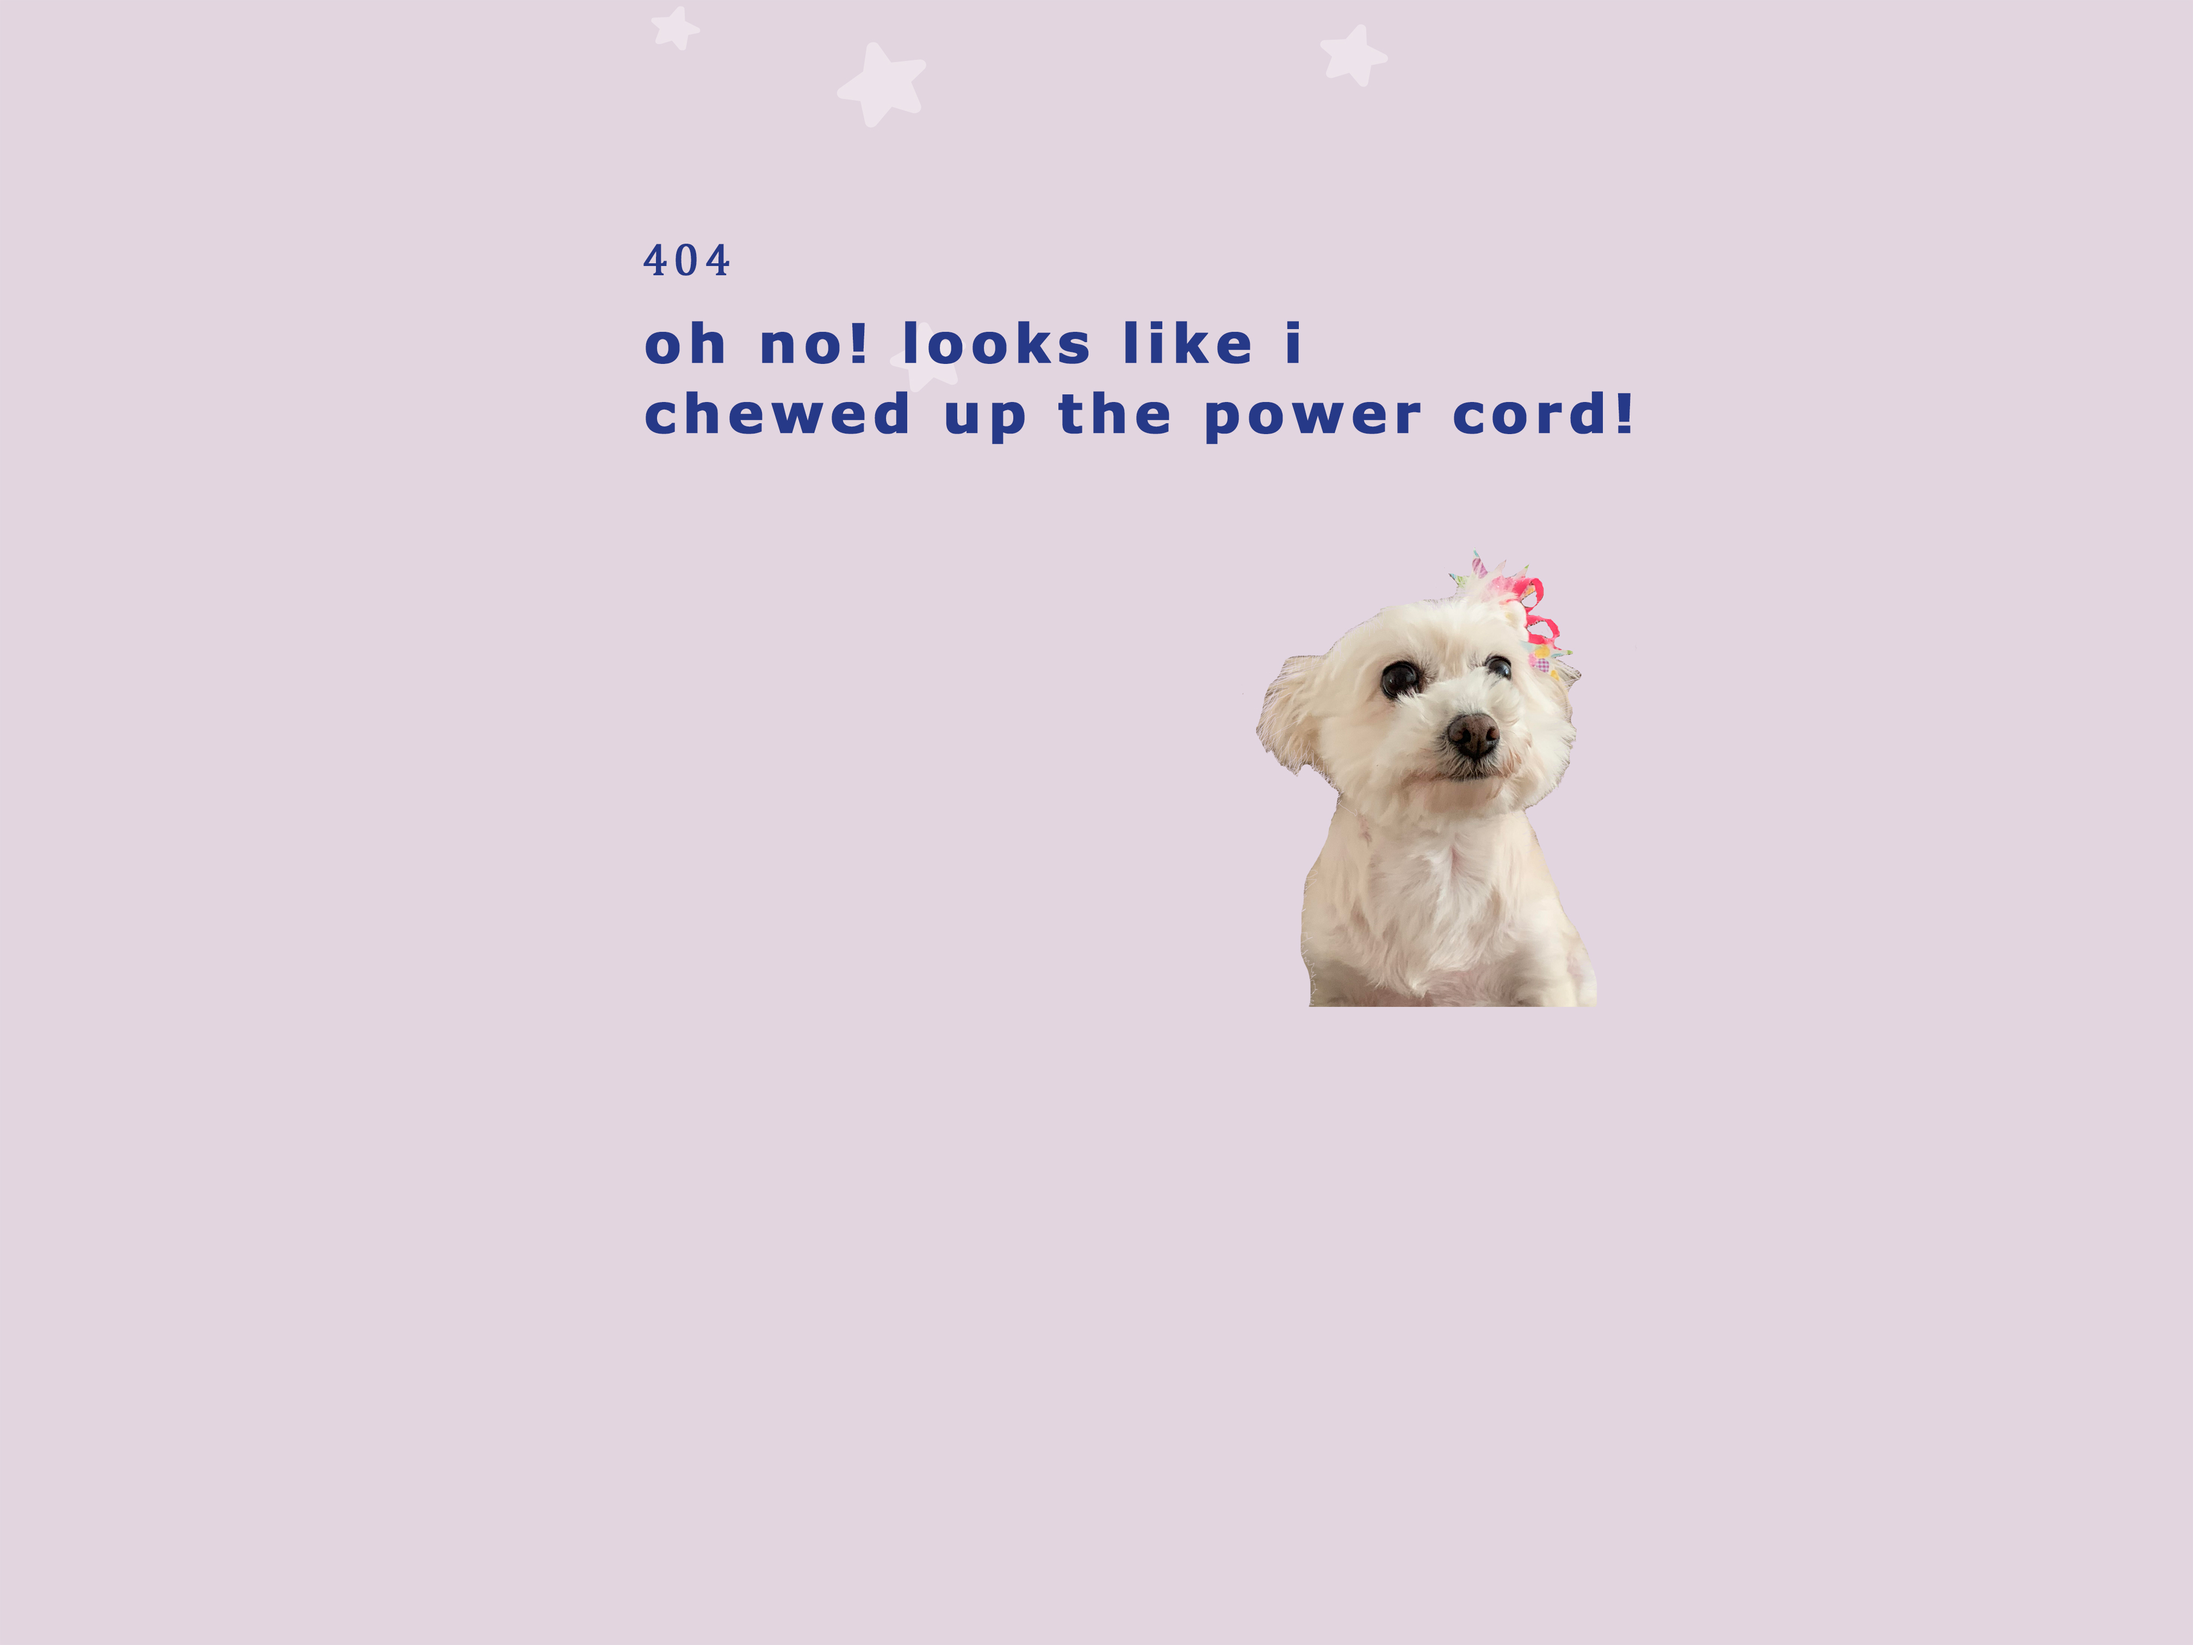
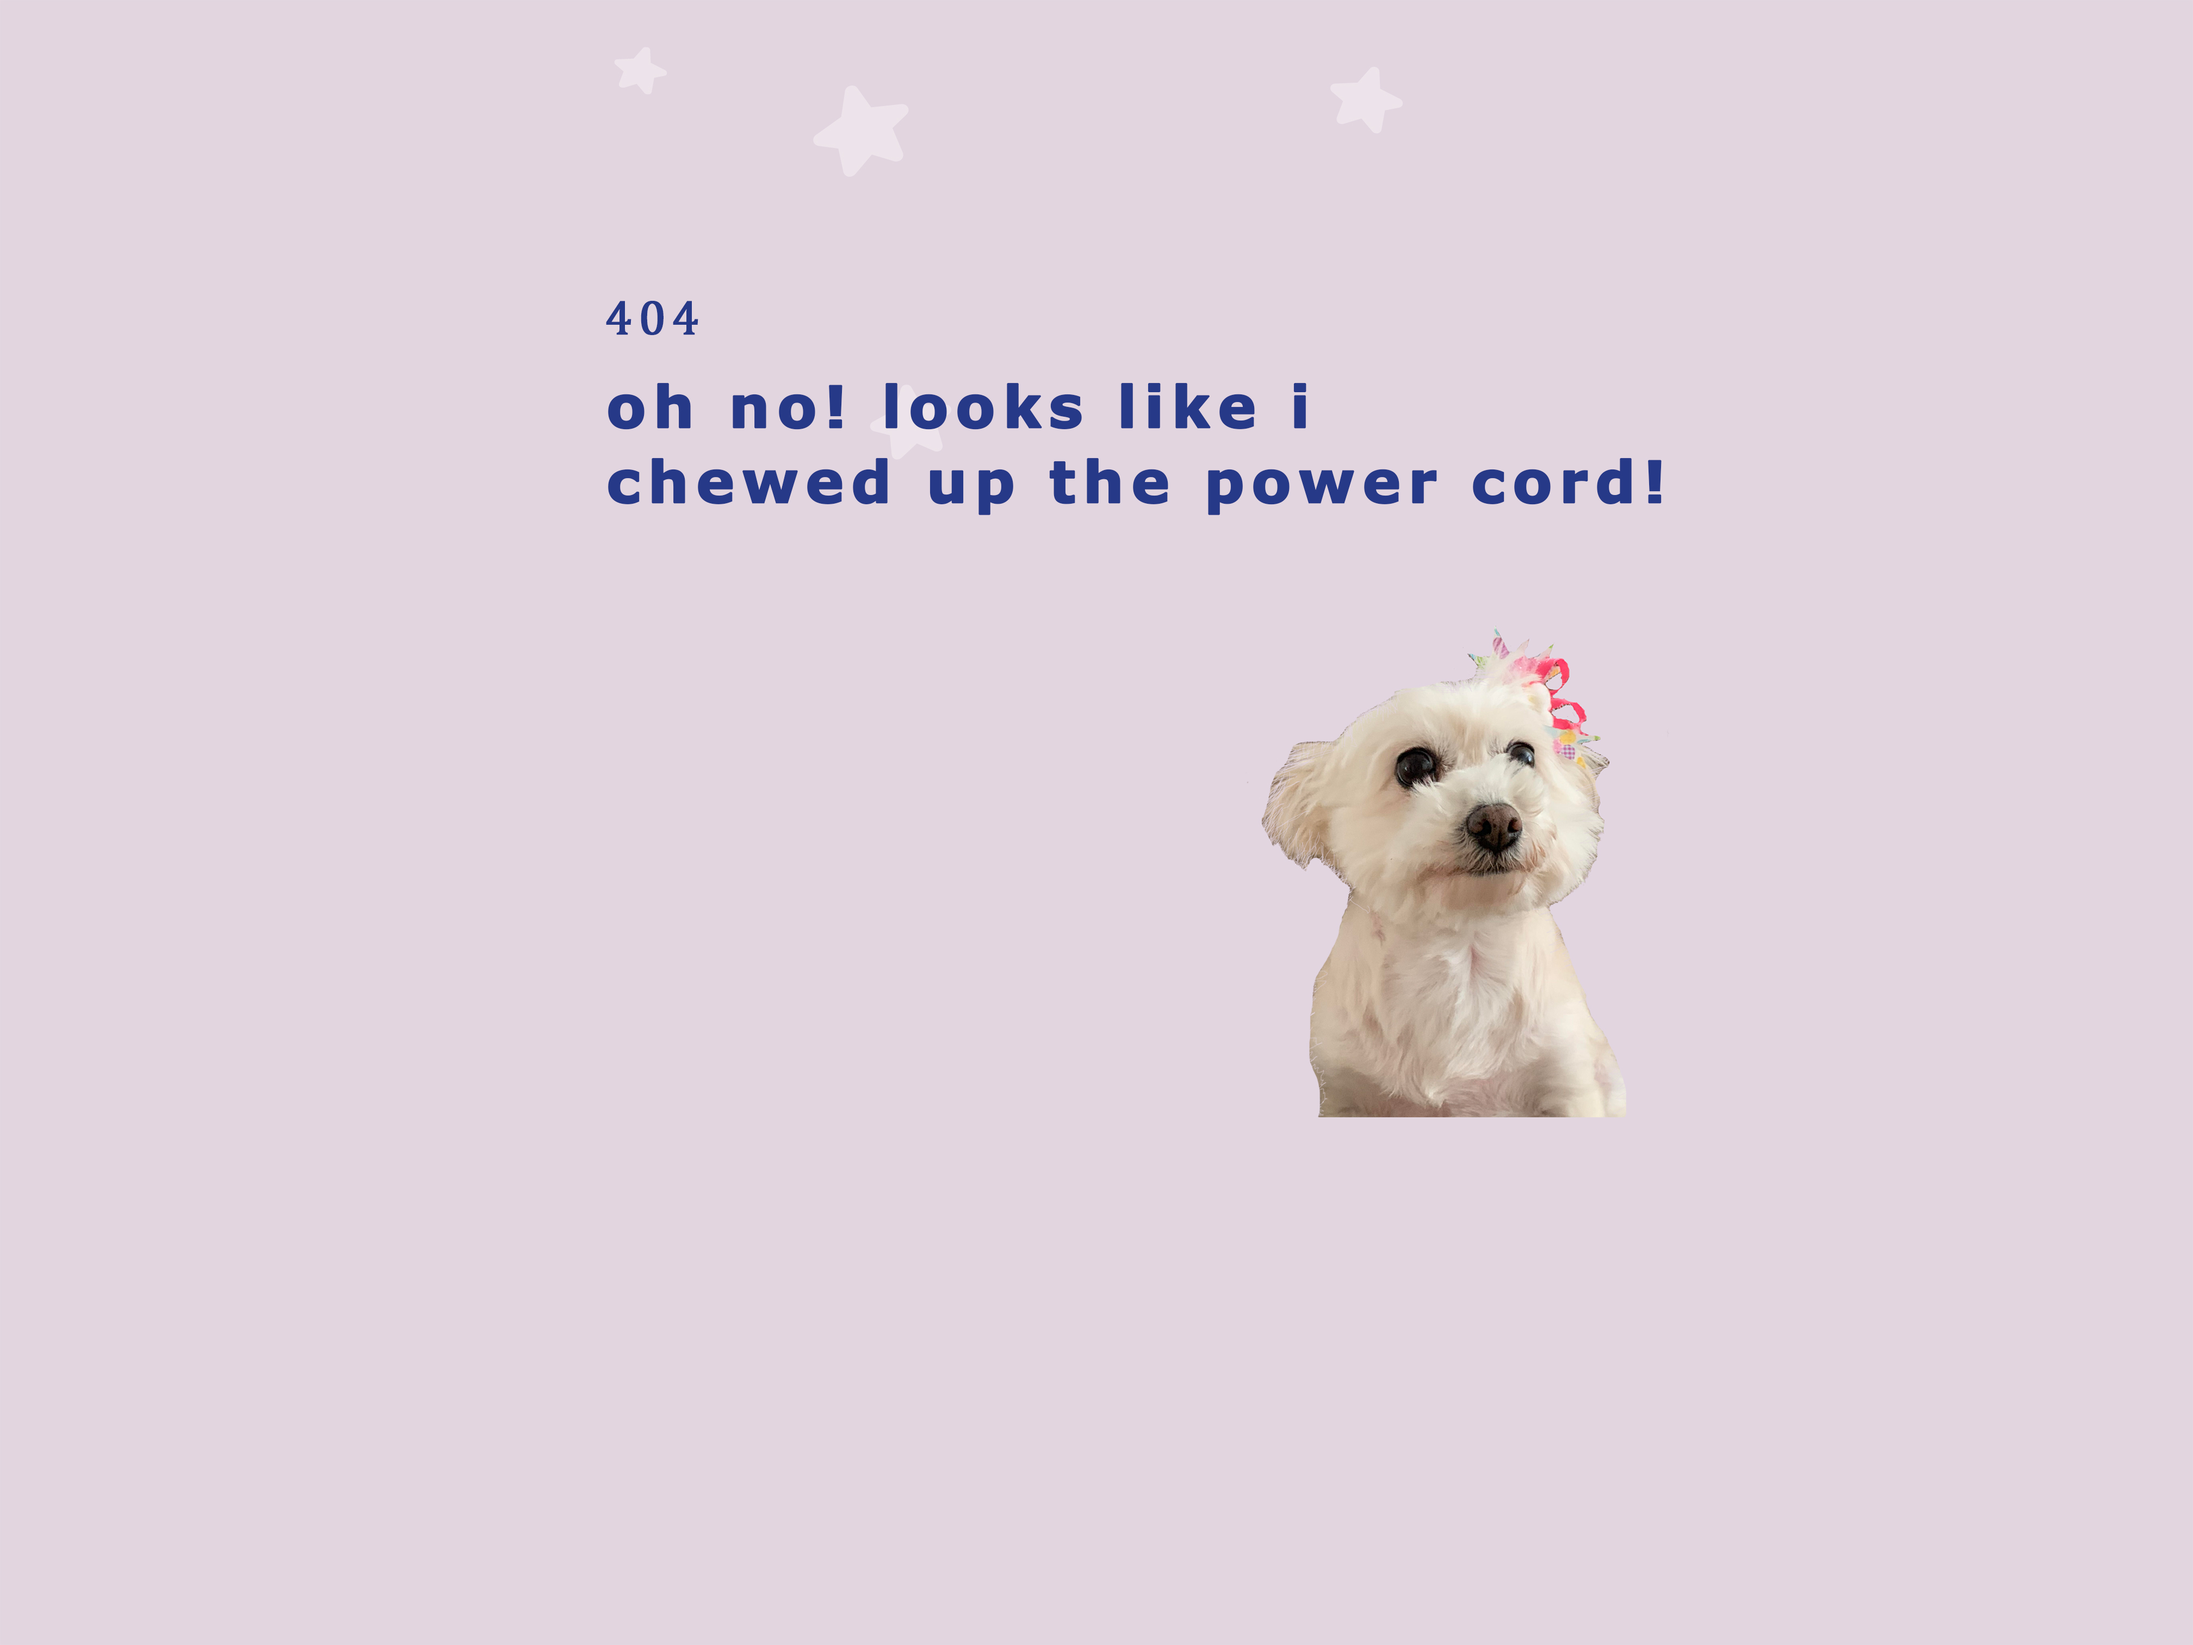
yes yes very good

Changed region(s): [[0.2812, 0.1554, 0.7812, 0.3108], [0.5625, 0.3419, 0.75, 0.6839]]

diff --git a/404.html b/404.html
@@ -12,7 +12,20 @@
 <body>
 
     <div id="page">
+       <br>
+        <p> </p>
         <br>
+        <p> </p>
+        <br>
+        <p> </p>
+        <br>
+        <p> </p>
+        <br>
+        <p> </p>
+        <br>
+        <p> </p>
+        <br>
+		<br>
         <p> </p>
         <br>
         <p> </p>
@@ -86,27 +99,10 @@
         <p> </p>
         <br>
         <p> </p>
-        <br>
-        <p> </p>
-        <br>
-        <p> </p>
-        <br>
-        <p> </p>
-        <br>
-        <p> </p>
-        <br>
-        <p> </p>
-        <br>
-        <p> </p>
-        <br>
-        <p> </p>
-        <br>
-        <p> </p>
-        <br>
-        <p> </p>
-        <br>
-        <p> </p>
-        <br>
+    	<br>
+     
+       
+     
     </div>
 
 </body>

diff --git a/styles.css b/styles.css
@@ -19,6 +19,7 @@
             background-image: url(imgs/404.jpg);
 		background-position: center center;
 		background-size: cover;
+		  
       }
 
 
